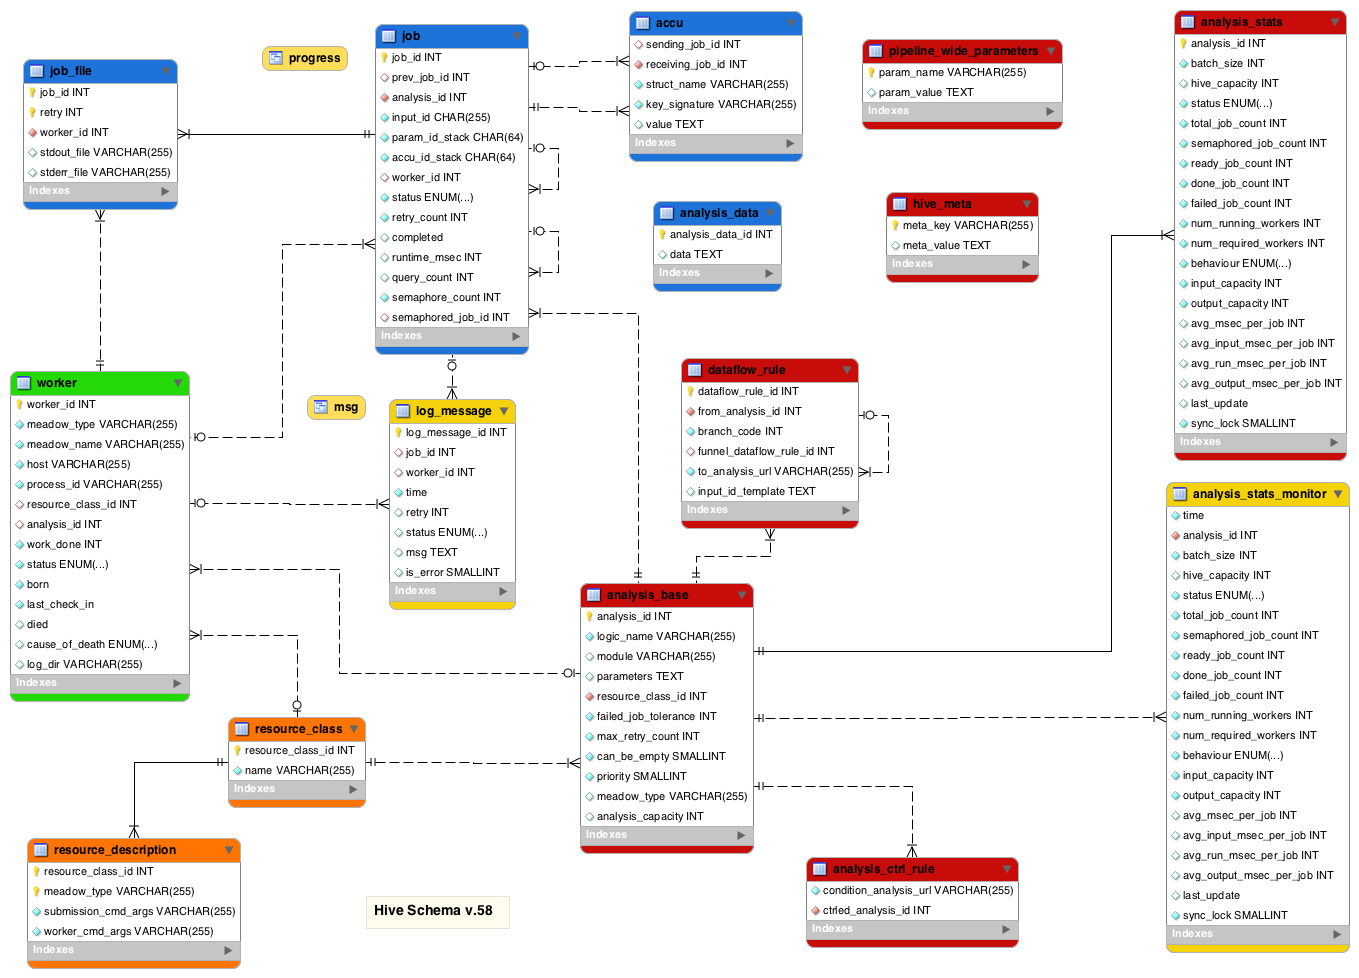
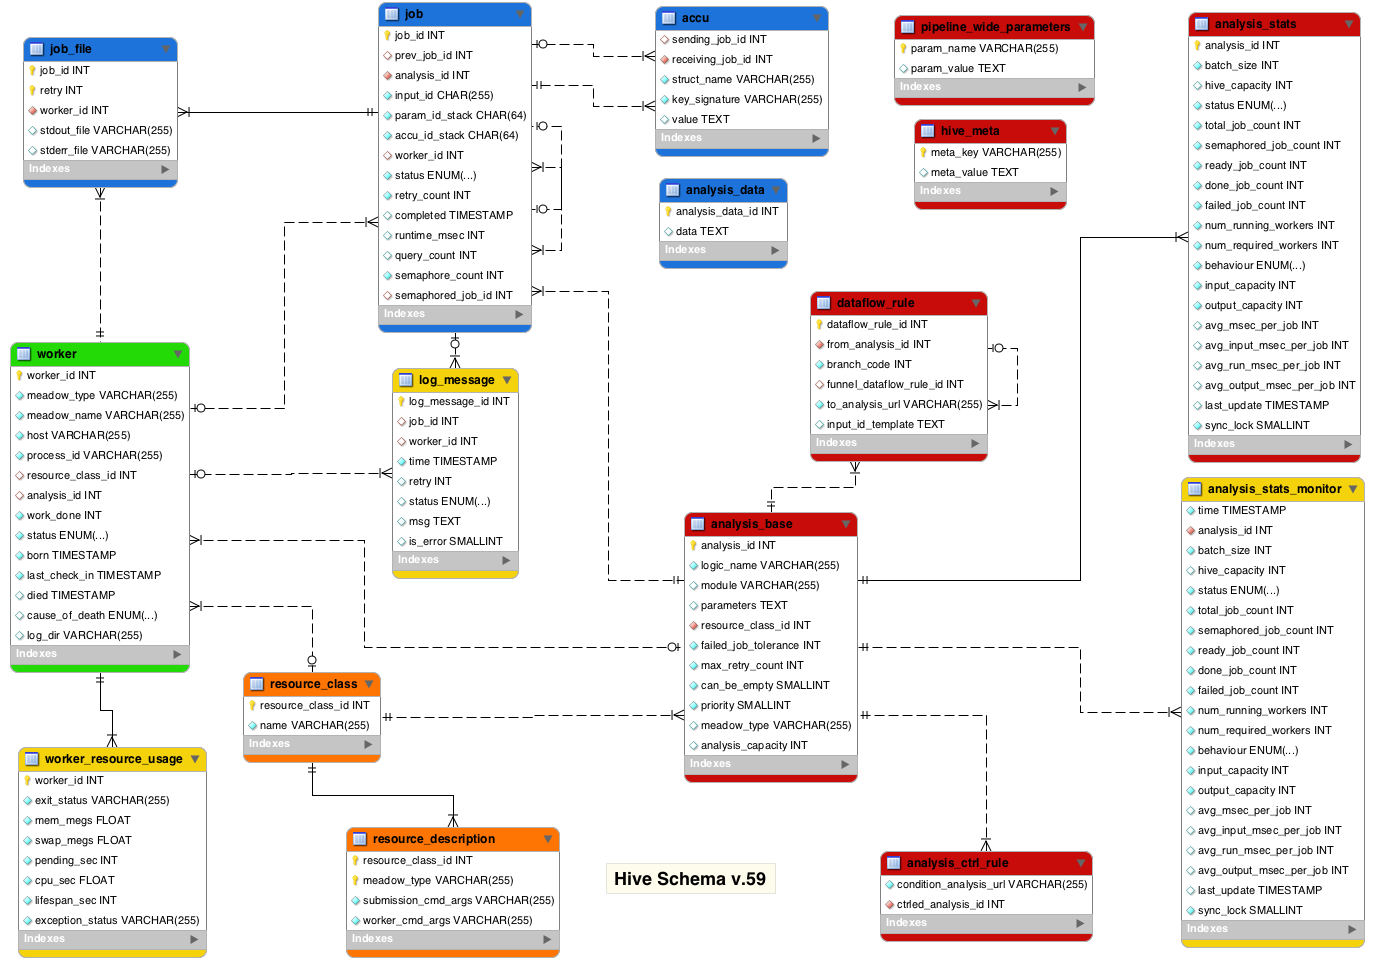
updated schema diagram and docs for schema v.59

diff --git a/docs/hive_schema.html b/docs/hive_schema.html
@@ -147,6 +147,7 @@ You can toggle the display of individual columns using [Show/Hide columns] butto
       <h2 style="margin-left:8px;display:inline;color:#FFF;vertical-align:middle">Logging and monitoring</h2>
     </div>
       <ul style="padding:0px 4px 0px 22px;margin-bottom:2px">
+        <li><a href="#worker_resource_usage"><b>worker_resource_usage</b></a></li>
         <li><a href="#log_message"><b>log_message</b></a></li>
         <li><a href="#analysis_stats_monitor"><b>analysis_stats_monitor</b></a></li>
 
@@ -498,10 +499,10 @@ You can toggle the display of individual columns using [Show/Hide columns] butto
     <table style="border:1px solid #667aa6;padding:0px;min-width:1000px;max-width:1200px">
       <tr class="center" style="color:#FFFFFF;background-color:#667aa6"><th style="color:#FFF;padding:2px">Column</th><th style="color:#FFF;padding:2px">Type</th><th style="color:#FFF;padding:2px;min-width:80px">Default value</th><th style="color:#FFF;padding:2px;min-width:500px">Description</th><th style="color:#FFF;padding:2px;min-width:100px">Index</th></tr>
       <tr class="bg1"><td><b>worker_id</b></td><td>INTEGER</td><td></td><td>unique ID of the Worker</td><td></td></tr>
-      <tr class="bg2"><td><b>meadow_type</b></td><td>VARCHAR(255)</td><td></td><td>type of the Meadow it is running on</td><td></td></tr>
-      <tr class="bg1"><td><b>meadow_name</b></td><td>VARCHAR(255)</td><td></td><td>name of the Meadow it is running on (for 'LOCAL' type is the same as host)</td><td></td></tr>
+      <tr class="bg2"><td><b>meadow_type</b></td><td>VARCHAR(255)</td><td></td><td>type of the Meadow it is running on</td><td>key: meadow_process</td></tr>
+      <tr class="bg1"><td><b>meadow_name</b></td><td>VARCHAR(255)</td><td></td><td>name of the Meadow it is running on (for 'LOCAL' type is the same as host)</td><td>key: meadow_process</td></tr>
       <tr class="bg2"><td><b>host</b></td><td>VARCHAR(255)</td><td></td><td>execution host name</td><td></td></tr>
-      <tr class="bg1"><td><b>process_id</b></td><td>VARCHAR(255)</td><td></td><td>identifies the Worker process on the Meadow (for 'LOCAL' is the OS PID)</td><td></td></tr>
+      <tr class="bg1"><td><b>process_id</b></td><td>VARCHAR(255)</td><td></td><td>identifies the Worker process on the Meadow (for 'LOCAL' is the OS PID)</td><td>key: meadow_process</td></tr>
       <tr class="bg2"><td><b>resource_class_id</b></td><td>INTEGER</td><td>NULL</td><td>links to Worker's resource class</td><td></td></tr>
       <tr class="bg1"><td><b>analysis_id</b></td><td>INTEGER</td><td>NULL</td><td>Analysis the Worker is specified into</td><td>key: analysis_status</td></tr>
       <tr class="bg2"><td><b>work_done</b></td><td>INTEGER</td><td>0</td><td>how many jobs the Worker has completed successfully</td><td></td></tr>
@@ -518,6 +519,33 @@ You can toggle the display of individual columns using [Show/Hide columns] butto
 <div style="background-color:#F2F2F2;padding:5px;margin:5px 0px;border-top:2px solid #F4D20C">
   <h2 id="5" style="display:inline;color:#000">Logging and monitoring</h2>
 </div>
+
+  <div id="worker_resource_usage" style="width:820px;height:20px;border: 2px groove #CCC;background-color:#FAFAFF;padding:2px;margin-top:35px;margin-bottom:2px">
+        <div style="float:left;padding:0px;height:20px;width:10px;background-color:#F4D20C;margin-right:10px"></div>
+    <div style="float:left;text-align:left;font-size:11pt;font-weight:bold">worker_resource_usage</div>
+    <div style="float:right;text-align:right;padding-right:1px">
+      <a id="a_worker_resource_usage" style="cursor:pointer;text-decoration:none" onclick="show_hide('worker_resource_usage')">
+        <img src="/i/16/plus-button.png" style="width:12px;height:12px;vertical-align:middle" alt="show"/>
+        <span style="vertical-align:middle">Show columns</span>
+      </a> 
+      <b> | </b> <a href="#top">[Back to top]</a>
+    </div>
+  </div>
+  <p style="padding:5px 0px;margin-bottom:0px;width:800px">A table with post-mortem resource usage statistics of a Worker.</p>
+
+  <div id="div_worker_resource_usage" style="display:none">
+    <table style="border:1px solid #667aa6;padding:0px;min-width:1000px;max-width:1200px">
+      <tr class="center" style="color:#FFFFFF;background-color:#667aa6"><th style="color:#FFF;padding:2px">Column</th><th style="color:#FFF;padding:2px">Type</th><th style="color:#FFF;padding:2px;min-width:80px">Default value</th><th style="color:#FFF;padding:2px;min-width:500px">Description</th><th style="color:#FFF;padding:2px;min-width:100px">Index</th></tr>
+      <tr class="bg1"><td><b>worker_id</b></td><td>INTEGER</td><td></td><td>links to the worker table</td><td>primary key</td></tr>
+      <tr class="bg2"><td><b>exit_status</b></td><td>VARCHAR(255)</td><td></td><td>meadow-dependent, in case of LSF it's usually 'done' (normal) or 'exit' (abnormal)</td><td></td></tr>
+      <tr class="bg1"><td><b>mem_megs</b></td><td>FLOAT</td><td></td><td>how much memory the Worker process used</td><td></td></tr>
+      <tr class="bg2"><td><b>swap_megs</b></td><td>FLOAT</td><td></td><td>how much swap the Worker process used</td><td></td></tr>
+      <tr class="bg1"><td><b>pending_sec</b></td><td>INTEGER</td><td></td><td>time spent by the process in the queue before it became a Worker</td><td></td></tr>
+      <tr class="bg2"><td><b>cpu_sec</b></td><td>FLOAT</td><td></td><td>cpu time used by the Worker process</td><td></td></tr>
+      <tr class="bg1"><td><b>lifespan_sec</b></td><td>INTEGER</td><td></td><td>walltime used by the Worker process</td><td></td></tr>
+      <tr class="bg2"><td><b>exception_status</b></td><td>VARCHAR(255)</td><td></td><td>meadow-specific flags, in case of LSF it can be 'underrun', 'overrun' or 'idle'</td><td></td></tr>
+    </table>
+  </div>
 
   <div id="log_message" style="width:820px;height:20px;border: 2px groove #CCC;background-color:#FAFAFF;padding:2px;margin-top:35px;margin-bottom:2px">
         <div style="float:left;padding:0px;height:20px;width:10px;background-color:#F4D20C;margin-right:10px"></div>
@@ -540,7 +568,7 @@ You can toggle the display of individual columns using [Show/Hide columns] butto
       <tr class="bg1"><td><b>worker_id</b></td><td>INTEGER</td><td>NULL</td><td>the 'current' worker</td><td>key: worker_id</td></tr>
       <tr class="bg2"><td><b>time</b></td><td>TIMESTAMP</td><td>CURRENT_TIMESTAMP</td><td>when the message was thrown</td><td></td></tr>
       <tr class="bg1"><td><b>retry</b></td><td>INTEGER</td><td>NULL</td><td>retry_count of the job when the message was thrown (or NULL if no job)</td><td></td></tr>
-      <tr class="bg2"><td><b>status</b></td><td>ENUM('UNKNOWN','SPECIALIZATION','COMPILATION','READY','PRE_CLEANUP','FETCH_INPUT','RUN','WRITE_OUTPUT','POST_CLEANUP','PASSED_ON')</td><td>'UNKNOWN'</td><td>of the job or worker when the message was thrown</td><td></td></tr>
+      <tr class="bg2"><td><b>status</b></td><td>ENUM('UNKNOWN','SPECIALIZATION','COMPILATION','CLAIMED','READY','PRE_CLEANUP','FETCH_INPUT','RUN','WRITE_OUTPUT','POST_CLEANUP','PASSED_ON')</td><td>'UNKNOWN'</td><td>of the job or worker when the message was thrown</td><td></td></tr>
       <tr class="bg1"><td><b>msg</b></td><td>TEXT</td><td></td><td>string that contains the message</td><td></td></tr>
       <tr class="bg2"><td><b>is_error</b></td><td>SMALLINT</td><td></td><td>binary flag</td><td></td></tr>
     </table>
